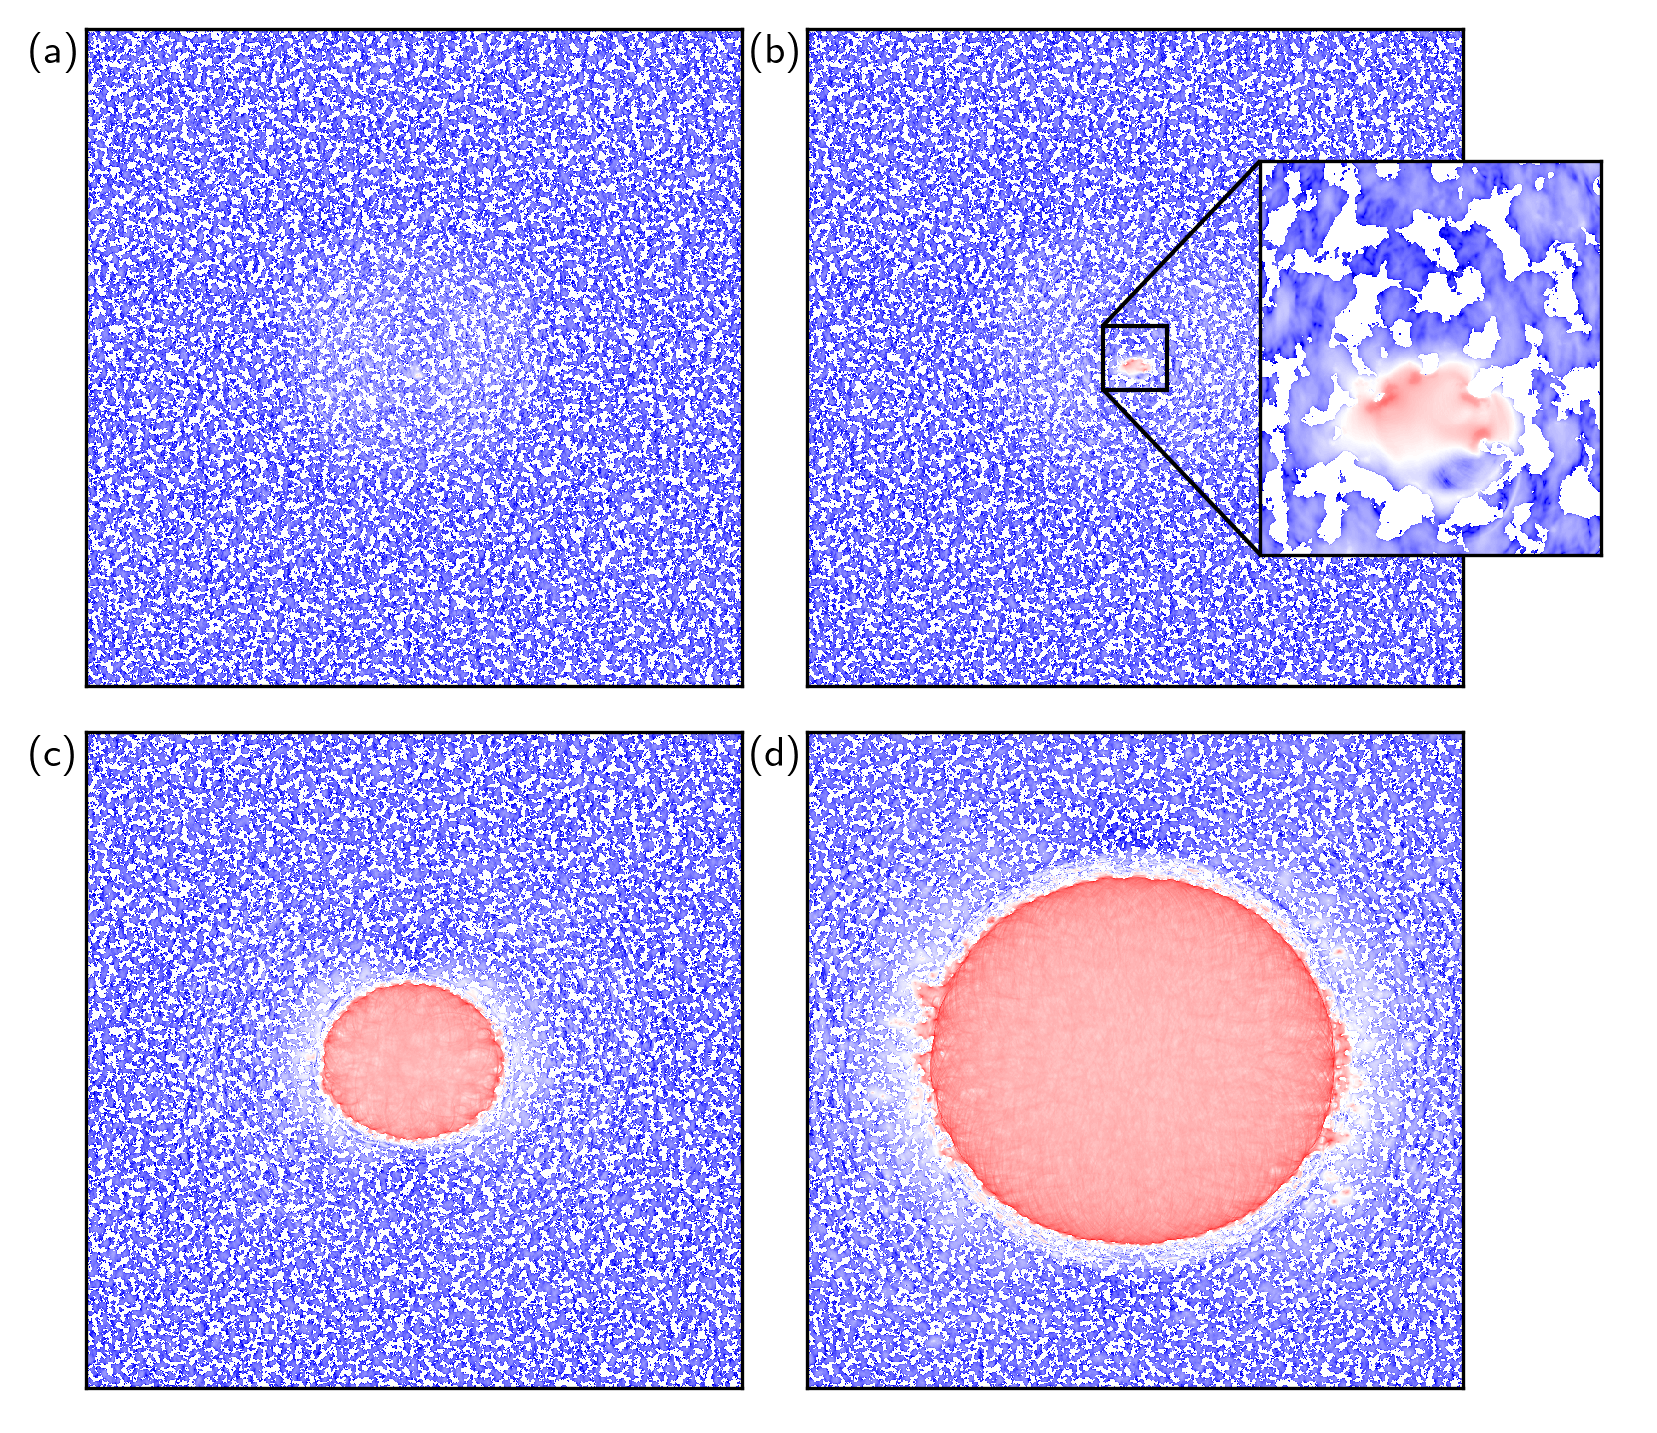
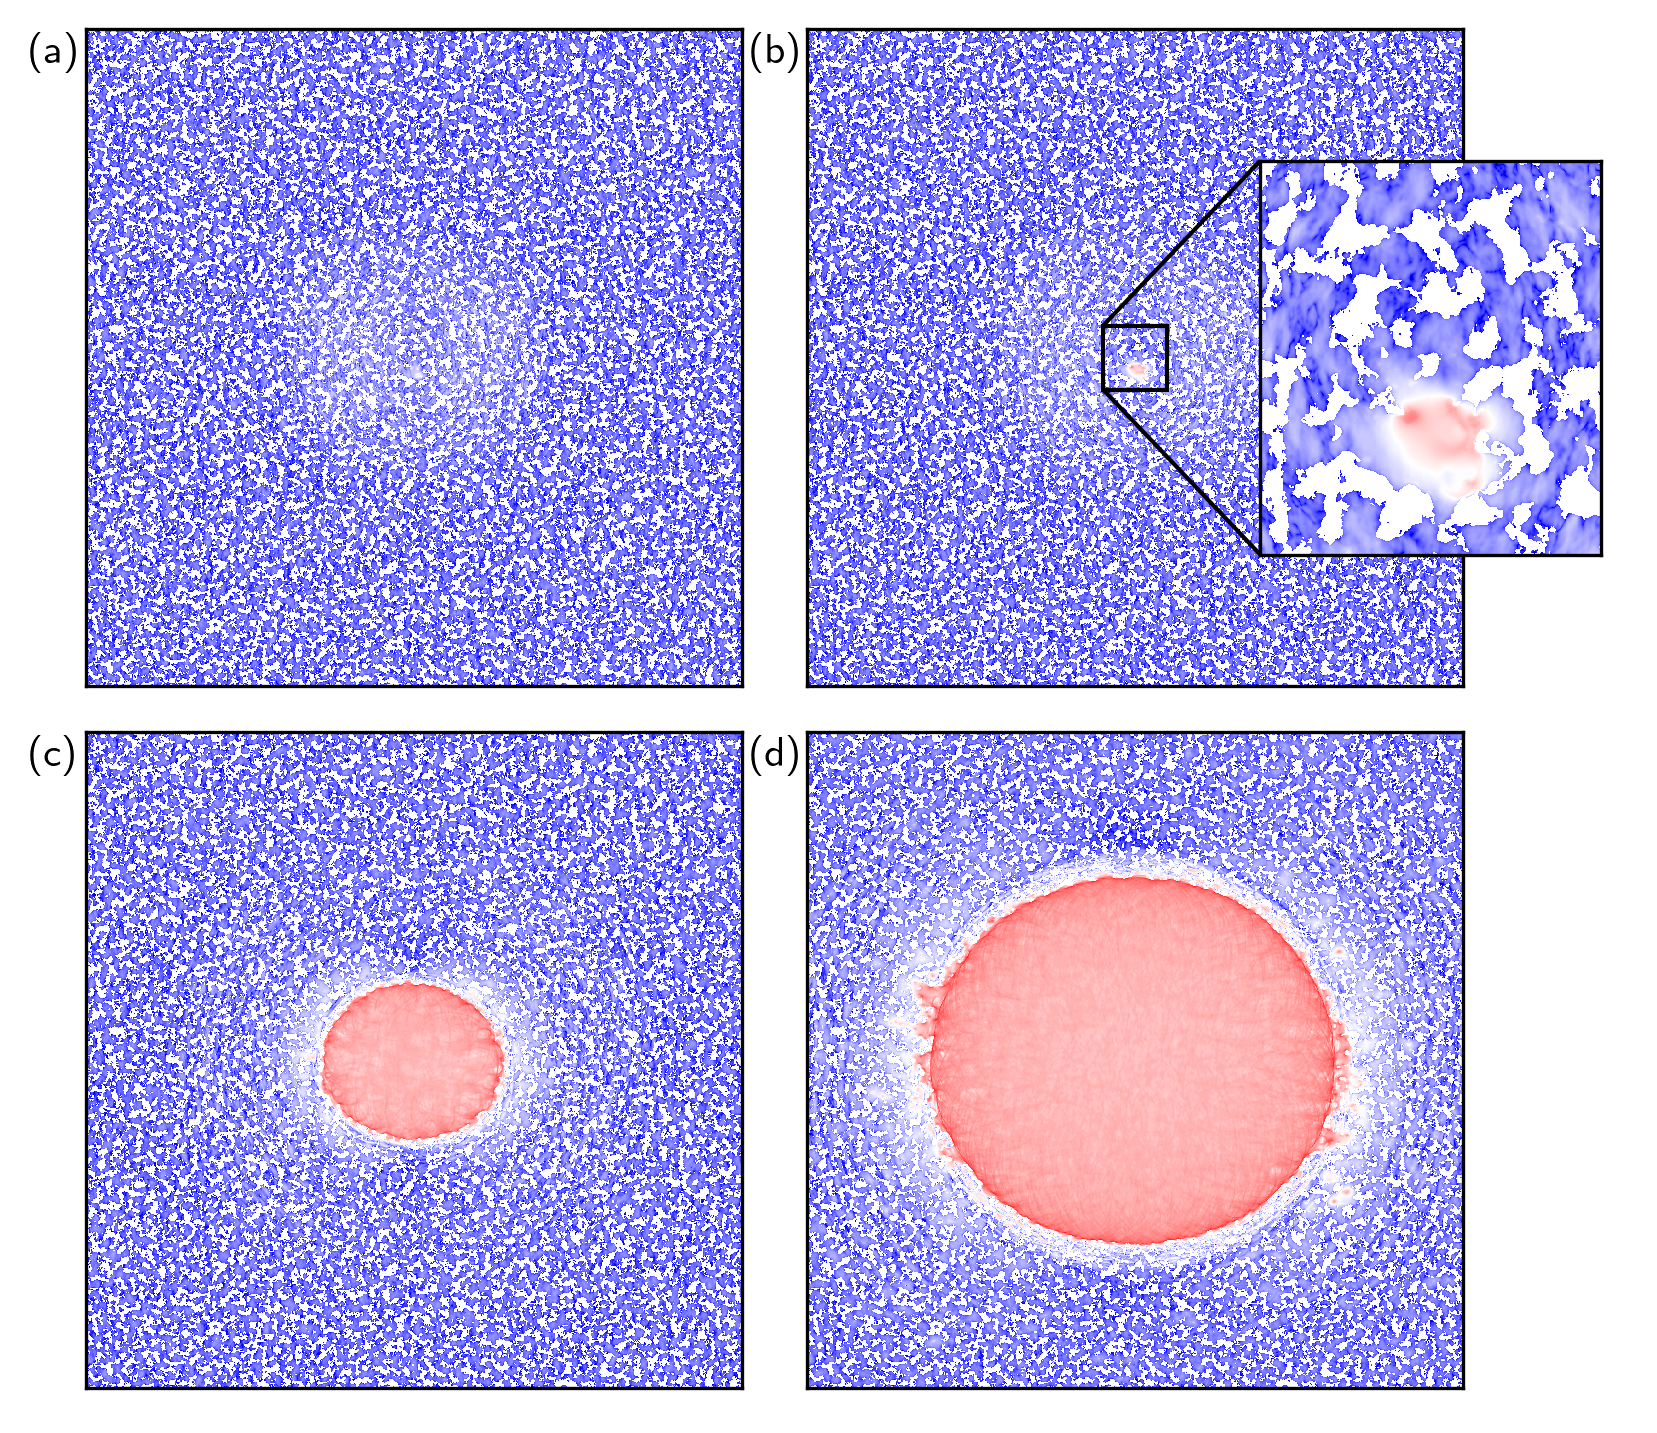
update text to mention the inset

Changed region(s): [[0.4925, 0.0307, 0.9849, 0.4913]]

diff --git a/joss/paper.md b/joss/paper.md
@@ -58,9 +58,9 @@ The study of dynamically propagating rupture along interfaces is of prime import
 
 The onset of sliding between two rough surfaces in frictional contact is an illustrative example of a multiscale rupture problem. Macroscopic shearing is resisted by the microcontacts, i.e. by the sparse contacting junctions existing between the asperities of the two surfaces.
 
-The successive panels of \autoref{fig:evolution} illustrate the nucleation and propagation of a frictional rupture at the interface between two solids, from the individual failure of the microcontacts in pannel (b) to the propagation of a macroscopic circular rupture in panel (d). The spatially heterogeneous strength used in this example is a representation of the heterogeneous map of contact between two rough surfaces. In \autoref{fig:evolution} (a), the initial configuration of the system is shown. The areas in white are sticking (i.e. no velocity) and correspond to asperities in contact. Colored areas are sliding (blue is for low slip velocity and red for larger ones). The shear load is increased with time in the following panels. The slip velocities increase and previously sticking parts of the interface start sliding (micro-contacts are broken). In \autoref{fig:evolution} (d), frictional cracks have expanded over almost the entire interface.
+The successive panels of \autoref{fig:evolution} illustrate the nucleation and propagation of a frictional rupture at the interface between two solids, from the individual failure of the microcontacts in pannel (b) to the propagation of a macroscopic circular rupture in panel (d). The spatially heterogeneous strength used in this example is a representation of the heterogeneous map of contact between two rough surfaces. In \autoref{fig:evolution} (a), the initial configuration of the system is shown. The areas in white are sticking (i.e. no velocity) and correspond to asperities in contact. Colored areas are sliding (blue is for low slip velocity and red for larger ones). The shear load is increased with time in the following panels. The slip velocities increase and previously sticking parts of the interface start sliding (micro-contacts are broken). The inset of \autoref{fig:evolution} (b) is a zoomed view of the interface where rupture starts at the asperity scale. In \autoref{fig:evolution} (d), frictional cracks have expanded over almost the entire interface.
 
-![Snapshot of the slip velocity at the interface between two elastic solids under shear loading. The initial strength is highly heterogeneous. Loading and time have increased between the snapshots, starting from (a) to (d). White areas correspond to sticking conditions (no velocity) while colored ones are sliding. Low velocities are in blue and large ones in red.\label{fig:evolution}](evolution.png){ width=95% }
+![Snapshot of the slip velocity at the interface between two elastic solids under shear loading. The initial strength is highly heterogeneous. Loading and time have increased between the snapshots, starting from (a) to (d). White areas correspond to sticking conditions (no velocity) while colored ones are sliding. Low velocities are in blue and large ones in red. This simulation involve $2^{24}$ points. It ran on .... \label{fig:evolution}](evolution.png){ width=95% }
 
 # Publications
 
